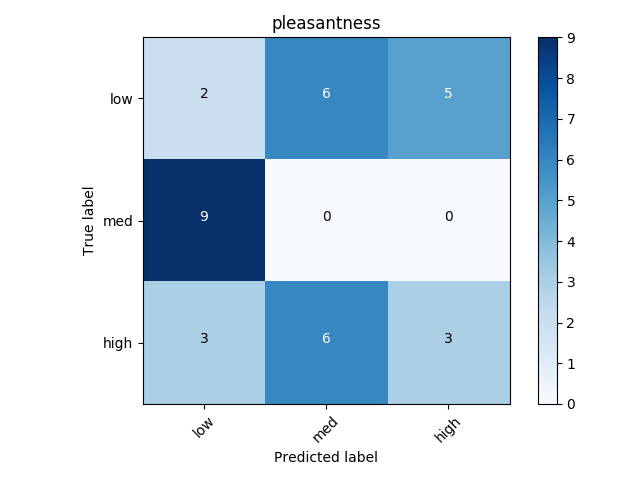
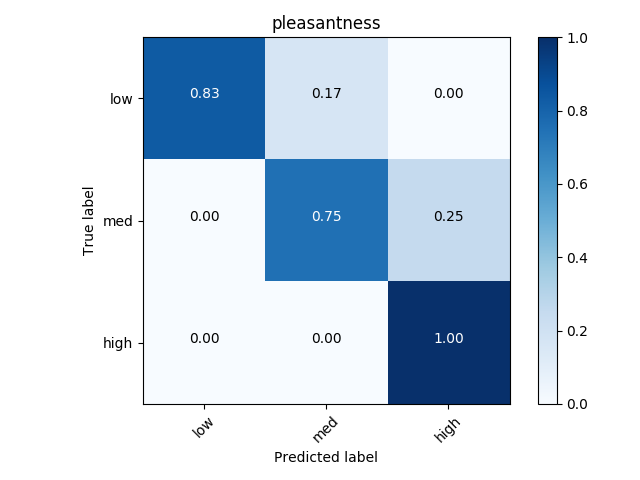
remove unecessary train_test_split and merge confusion matrix calculation into n_fold method

diff --git a/test.py b/test.py
@@ -13,18 +13,24 @@ from process_data import ProcessedData
 from sklearn.naive_bayes import MultinomialNB
 
 
-def n_fold_test(data_list, num_folds, model_type, **kwargs):
+def n_fold_test(data_list, num_folds, model_type, compute_matrix=False, **kwargs):
     """
     Performs an n fold test on the provided data and outputs the data to a csv 
 
     Parameters:
-    data_list (ListOf str): list of paths to training data
-    n_folds (int): number of folds
+    data_list (List[str]): list of paths to training data
+    num_folds (int): number of folds
     model_type (Enum): denotes which model is being tested
+    compute_matrix (bool): to compute confusion matrix or not. If selected, will default num_folds to 1
+    **kwargs (dict): 
 
     Returns:
         None
     """
+
+    if compute_matrix:
+        num_folds = 2
+        print("Automatically changing num_folds to 2 in order to compute confusion matrix")
 
     data = ProcessedData(data_list, model_type)
     np_data = np.asarray(data.data)
@@ -34,169 +40,121 @@ def n_fold_test(data_list, num_folds, model_type, **kwargs):
     # plot_ellsworth_figs(np_data)
 
     if model_type == Models.CLARK:
-        mean_fscores = [0, 0]
-
-        for i, split in enumerate(splits):
-            av2e_model = kwargs.get("av2e_classifier", AV2EClassifiers.RANDOM_FOREST.value)
-            ngram_choice = kwargs.get("ngram_choice", NGrams.UNIGRAM_AND_BIGRAM.value)
-            clark = ClarkModel(av2e_model, ngram_choice)
-            clark.train(np.concatenate(splits[:i]+splits[i+1:]))
-            clark.test(splits[i])
-
-            mean_fscores[0] += clark.micro_fscores
-            mean_fscores[1] += clark.macro_fscores
-
-        mean_fscores[0] /= num_folds
-        mean_fscores[1] /= num_folds
-
-        with open("results/CLARK_results.csv", "w") as csv_file:
-            writer = csv.writer(csv_file)
-            writer.writerow(["Micro F Score", "Macro F Score"])
-            writer.writerow([mean_fscores[0], mean_fscores[1]])
-
-        print("CLARK Model Done!")
+        __test_CLARK_model(splits, kwargs, num_folds, compute_matrix)
 
     elif model_type == Models.EMOTION:
-        mean_fscores = [0, 0]
-
-        for i, split in enumerate(splits):
-            em_model = EmotionModel(kwargs.get("ngram_choice", NGrams.UNIGRAM_AND_BIGRAM.value))
-            em_model.train(np.concatenate(splits[:i]+splits[i+1:]))
-            em_model.test(splits[i])
-
-            mean_fscores[0] += em_model.micro_fscores
-            mean_fscores[1] += em_model.macro_fscores
-
-        mean_fscores[0] /= num_folds
-        mean_fscores[1] /= num_folds
-
-        with open("results/Emotion_results.csv", "w") as csv_file:
-            writer = csv.writer(csv_file)
-            writer.writerow(["Micro F Score", "Macro F Score"])
-            writer.writerow([mean_fscores[0], mean_fscores[1]])
-
-        print("Emotions Model Done!")
+        __test_emotions_model(splits, kwargs, num_folds, compute_matrix)
 
     elif model_type == Models.APPRAISAL_VARIABLES:
-        mean_fscores = {}
-        for var in AVModel(kwargs.get("ngram_choice", NGrams.UNIGRAM_AND_BIGRAM.value)).variables:
-            mean_fscores[var] = [0, 0]
-
-        for i, split in enumerate(splits):
-            av = AVModel(kwargs.get("ngram_choice", NGrams.UNIGRAM_AND_BIGRAM.value))
-            av.train(np.concatenate(splits[:i]+splits[i+1:]))
-            av.test(splits[i])
-
-            for var in av.variables:
-                mean_fscores[var][0] += av.micro_fscores[var]
-                mean_fscores[var][1] += av.macro_fscores[var]
-
-        for var in mean_fscores:
-            mean_fscores[var][0] /= num_folds
-            mean_fscores[var][1] /= num_folds
-
-        with open("results/AV_results.csv", "w") as csv_file:
-            writer = csv.writer(csv_file)
-            writer.writerow(["Variable", "Micro F Score", "Macro F Score"])
-            for key, value in mean_fscores.items():
-                writer.writerow([key, value[0], value[1]])
-
-        print("AV Model Done!")
+        __test_av_model(kwargs, splits, num_folds, compute_matrix)
 
     elif model_type == Models.APPRAISAL_VARIABLES_TO_EMOTION:
-        models = ["decision_tree", "naive_bayes",
-                  "comp_naive_bayes", "random_forest"]
-        mean_fscores = {m: [0.0, 0.0] for m in models}
-
-        for i, split in enumerate(splits):
-            av2e_model = AVtoEmotionModel()
-            av2e_model.train(np.concatenate(splits[:i]+splits[i+1:]))
-            av2e_model.test(splits[i])
-
-            for m in models:
-                mean_fscores[m][0] += av2e_model.micro_fscores[m]
-                mean_fscores[m][1] += av2e_model.macro_fscores[m]
-
-        for m in models:
-            mean_fscores[m][0] /= num_folds
-            mean_fscores[m][1] /= num_folds
-
-        with open("results/AV2E_results.csv", "w") as csv_file:
-            writer = csv.writer(csv_file)
-            writer.writerow(["Model", "Micro F Score", "Macro F Score"])
-            for m in models:
-                writer.writerow([m, mean_fscores[m][0], mean_fscores[m][1]])
-
-        print("AV2E Model Done!")
+        __test_av2e_model(splits, num_folds)
     
     else:
         raise ValueError("Unknown Model Selection")
 
+def __test_av2e_model(splits, num_folds):
+    models = ["decision_tree", "naive_bayes",
+              "comp_naive_bayes", "random_forest"]
+    mean_fscores = {m: [0.0, 0.0] for m in models}
 
-def train_test_split(data_list, s, c_e, show_matrix=False, **kwargs):
-    """
-    TODO: convert to use the enum
-    Performs a single train-test split test
+    for i, split in enumerate(splits):
+        av2e_model = AVtoEmotionModel()
+        av2e_model.train(np.concatenate(splits[:i]+splits[i+1:]))
+        av2e_model.test(splits[i])
 
-    Parameters:
-    s (float): ratio of training to testing
+        for m in models:
+            mean_fscores[m][0] += av2e_model.micro_fscores[m]
+            mean_fscores[m][1] += av2e_model.macro_fscores[m]
 
-    Returns:
-    Object: FScore results for each AV
-    """
-    data = ProcessedData(data_list, c_e)
-    np_data = np.asarray(data.data)
-    np.random.shuffle(np_data)
-    training_data, testing_data = data.split_data([data.data], s)
-    if c_e == 0:
-        clark = ClarkModel(kwargs.get("av2e_classifier"), kwargs.get("ngram_choice"))
-        clark.train(training_data)
-        clark.test(testing_data)
+    for m in models:
+        mean_fscores[m][0] /= num_folds
+        mean_fscores[m][1] /= num_folds
 
-        if show_matrix:
-            clark.confusion_matrix("CLARK")
+    with open("results/AV2E_results.csv", "w") as csv_file:
+        writer = csv.writer(csv_file)
+        writer.writerow(["Model", "Micro F Score", "Macro F Score"])
+        for m in models:
+            writer.writerow([m, mean_fscores[m][0], mean_fscores[m][1]])
 
-        with open("results/CLARK_results.csv", "w") as csv_file:
-            writer = csv.writer(csv_file)
-            writer.writerow(["Micro F Score", "Macro F Score"])
-            writer.writerow([clark.micro_fscores, clark.macro_fscores])
+    print("AV2E Model Done!")
 
-        print("CLARK Model Done!")
+def __test_av_model(kwargs, splits, num_folds, compute_matrix):
+    mean_fscores = {}
+    for var in AVModel(kwargs.get("ngram_choice", NGrams.UNIGRAM_AND_BIGRAM.value)).variables:
+        mean_fscores[var] = [0, 0]
 
-    elif c_e == 1:
-        em_model = EmotionModel()
-        em_model.train(training_data)
-        em_model.test(testing_data)
+    for i, split in enumerate(splits):
+        av = AVModel(kwargs.get("ngram_choice", NGrams.UNIGRAM_AND_BIGRAM.value))
+        av.train(np.concatenate(splits[:i]+splits[i+1:]))
+        av.test(splits[i])
 
-        if show_matrix:
-            em_model.confusion_matrix("Emotions")
-
-        with open("results/Emotion_results.csv", "w") as csv_file:
-            writer = csv.writer(csv_file)
-            writer.writerow(["Micro F Score", "Macro F Score"])
-            writer.writerow([em_model.micro_fscores, em_model.macro_fscores])
-
-        print("Emotions Model Done!")
-
-    else:
-
-        av = AVModel()
-        av.train(training_data)
-        av.test(testing_data)
-
-        if show_matrix:
+        for var in av.variables:
+            mean_fscores[var][0] += av.micro_fscores[var]
+            mean_fscores[var][1] += av.macro_fscores[var]
+        
+        if compute_matrix:
             av.confusion_matrix("Appraisal Variables")
 
-        fscores = {}
-        for var in av.variables:
-            fscores[var] = [0, 0]
-            fscores[var][0] = av.micro_fscores[var]
-            fscores[var][1] = av.macro_fscores[var]
+    for var in mean_fscores:
+        mean_fscores[var][0] /= num_folds
+        mean_fscores[var][1] /= num_folds
 
-        with open("results/AV_results.csv", "w") as csv_file:
-            writer = csv.writer(csv_file)
-            writer.writerow(["Variable", "Micro F Score", "Macro F Score"])
-            for key, value in fscores.items():
-                writer.writerow([key, value[0], value[1]])
+    with open("results/AV_results.csv", "w") as csv_file:
+        writer = csv.writer(csv_file)
+        writer.writerow(["Variable", "Micro F Score", "Macro F Score"])
+        for key, value in mean_fscores.items():
+            writer.writerow([key, value[0], value[1]])
 
-        print("AV Model Done!")
+    print("AV Model Done!")
+
+def __test_emotions_model(splits, kwargs, num_folds, compute_matrix):
+    mean_fscores = [0, 0]
+
+    for i, split in enumerate(splits):
+        em_model = EmotionModel(kwargs.get("ngram_choice", NGrams.UNIGRAM_AND_BIGRAM.value))
+        em_model.train(np.concatenate(splits[:i]+splits[i+1:]))
+        em_model.test(splits[i])
+
+        mean_fscores[0] += em_model.micro_fscores
+        mean_fscores[1] += em_model.macro_fscores
+
+        if compute_matrix:
+            em_model.confusion_matrix("Emotions")
+
+    mean_fscores[0] /= num_folds
+    mean_fscores[1] /= num_folds
+
+    with open("results/Emotion_results.csv", "w") as csv_file:
+        writer = csv.writer(csv_file)
+        writer.writerow(["Micro F Score", "Macro F Score"])
+        writer.writerow([mean_fscores[0], mean_fscores[1]])
+
+    print("Emotions Model Done!")
+
+def __test_CLARK_model(splits, kwargs, num_folds, compute_matrix):
+    mean_fscores = [0, 0]
+
+    for i, split in enumerate(splits):
+        av2e_model = kwargs.get("av2e_classifier", AV2EClassifiers.RANDOM_FOREST.value)
+        ngram_choice = kwargs.get("ngram_choice", NGrams.UNIGRAM_AND_BIGRAM.value)
+        clark = ClarkModel(av2e_model, ngram_choice)
+        clark.train(np.concatenate(splits[:i]+splits[i+1:]))
+        clark.test(splits[i])
+
+        mean_fscores[0] += clark.micro_fscores
+        mean_fscores[1] += clark.macro_fscores
+
+        if compute_matrix:
+            clark.confusion_matrix("CLARK")
+
+    mean_fscores[0] /= num_folds
+    mean_fscores[1] /= num_folds
+
+    with open("results/CLARK_results.csv", "w") as csv_file:
+        writer = csv.writer(csv_file)
+        writer.writerow(["Micro F Score", "Macro F Score"])
+        writer.writerow([mean_fscores[0], mean_fscores[1]])
+
+    print("CLARK Model Done!")

diff --git a/models/emotion_model.py b/models/emotion_model.py
@@ -66,7 +66,7 @@ class EmotionModel(BaseEmotionModel):
                     tokenized_res, self.ngram_choice)
 
                 words_vocab, words, words_totals = self.__build_word_counts(
-                    res, words_vocab, words, true_emotion, words_totals, emotion)
+                    res, words_vocab, words, true_emotion, words_totals)
 
         sum_totals = sum(words_totals.values())
         self.priors = {emotion: float(
@@ -75,7 +75,7 @@ class EmotionModel(BaseEmotionModel):
         self.__calculate_probabilities(
             words, words_totals, words_vocab, tense_totals, tense_vocab, pronoun_totals, pronoun_vocab)
 
-    def __build_word_counts(self, res, words_vocab, words, true_emotion, words_totals, emotion):
+    def __build_word_counts(self, res, words_vocab, words, true_emotion, words_totals):
         for word in res:
             words_vocab.add(word)
             if word in words:

diff --git a/models/AV_model.py b/models/AV_model.py
@@ -1,7 +1,9 @@
 import math
 
 import numpy as np
+from sklearn.metrics import confusion_matrix
 
+from graphing_helpers import plot_confusion_matrix
 from models.base.base_emotion_model import BaseEmotionModel
 from nlp_helpers import (determine_pronoun, determine_tense, flatten,
                          ngrams_and_remove_stop_words, normalize,
@@ -97,7 +99,8 @@ class AVModel(BaseEmotionModel):
                         self.pronouns[variable][p_pronoun][true_dim] += 1
                         pronoun_totals[true_dim] += 1
 
-                res = ngrams_and_remove_stop_words(tokenized_res, self.ngram_choice)
+                res = ngrams_and_remove_stop_words(
+                    tokenized_res, self.ngram_choice)
                 for word in res:
                     words_vocab.add(word)
                     if word in words:

diff --git a/main.py b/main.py
@@ -1,13 +1,11 @@
-from test import n_fold_test, train_test_split
+from test import n_fold_test
 
 from enums.clark_enums import AV2EClassifiers
 from enums.global_enums import Models, NGrams
 
 newest_file = "data/combined_091319.json"
 
-# train_test_split([newest_file], 0.75, 3, True)
-
-# n_fold_test([newest_file], 10, Models.APPRAISAL_VARIABLES_TO_EMOTION)
-# n_fold_test([newest_file], 10, Models.APPRAISAL_VARIABLES)
-# n_fold_test([newest_file], 10, Models.EMOTION)
+n_fold_test([newest_file], 10, Models.APPRAISAL_VARIABLES_TO_EMOTION)
+n_fold_test([newest_file], 10, Models.APPRAISAL_VARIABLES)
+n_fold_test([newest_file], 10, Models.EMOTION)
 n_fold_test([newest_file], 10, Models.CLARK)
